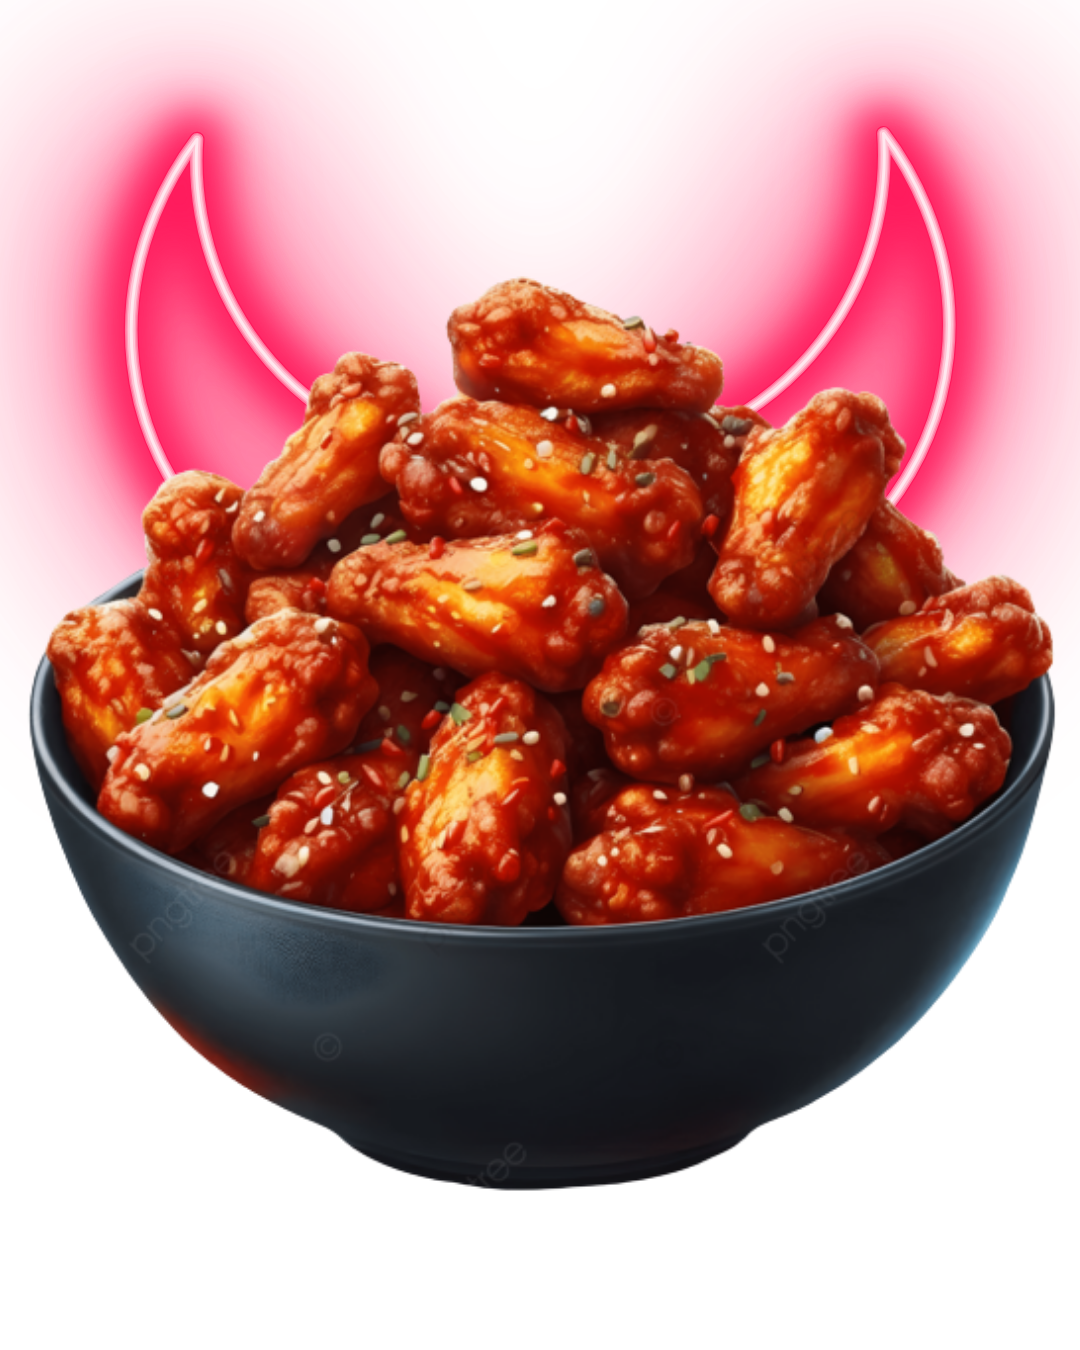
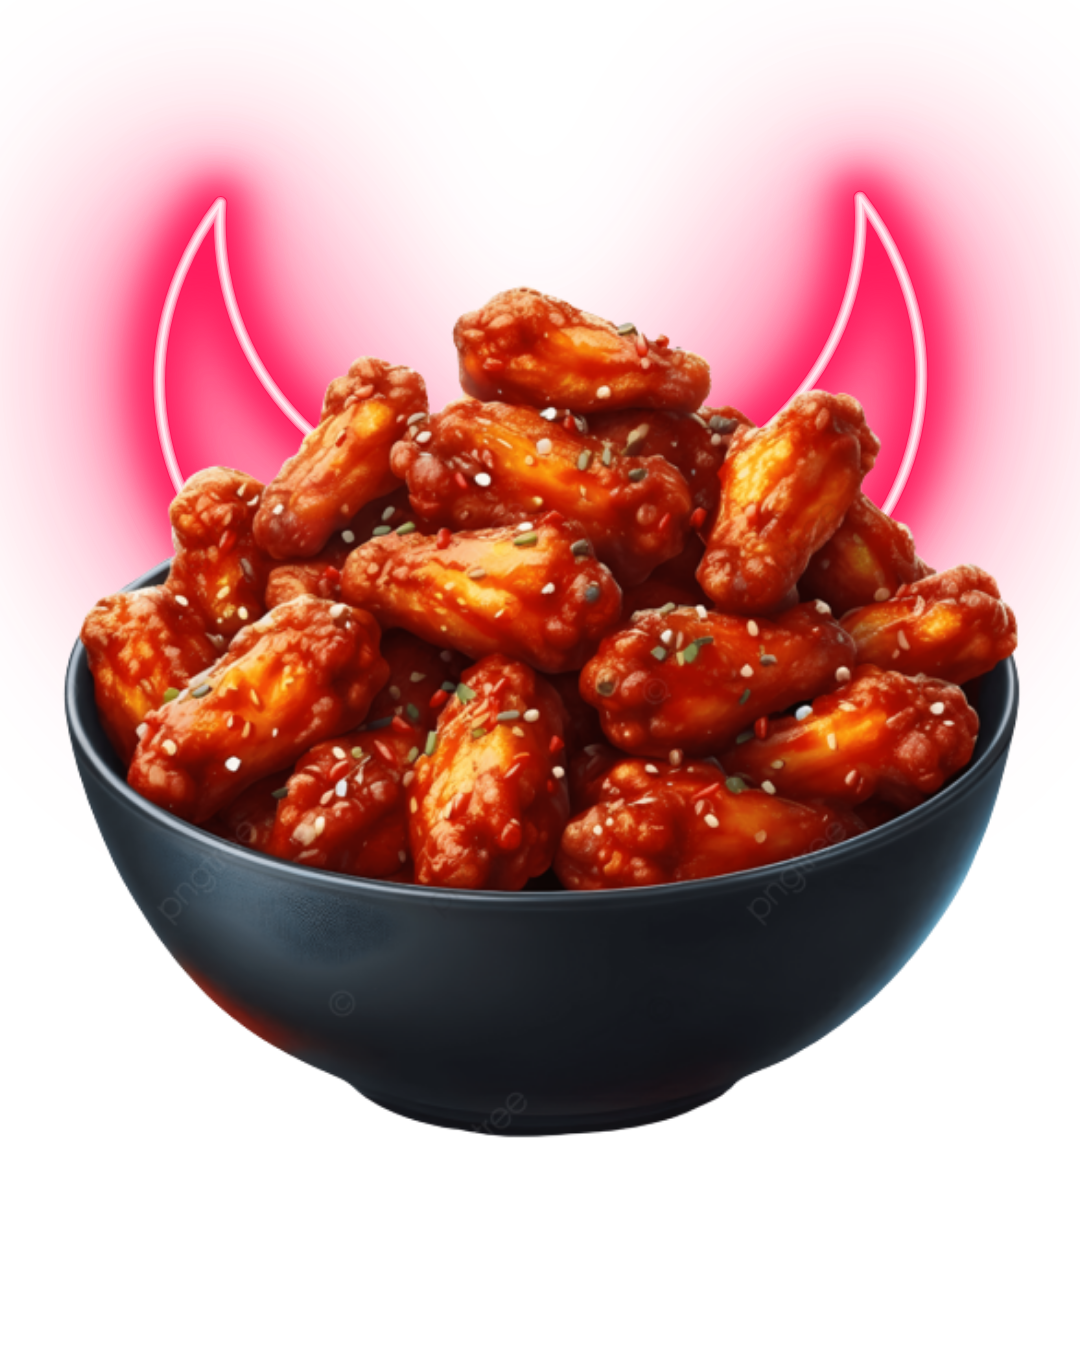
Actualizar imagen de Todos Pecan con nueva versión
- Reemplazar imagen todos-pecan.png con nueva versión
- Agregar parámetro v=2 para evitar caché del navegador
- Forzar recarga de imagen actualizada

🤖 Generated with [Claude Code](https://claude.com/claude-code)

diff --git a/app/fat/page.tsx b/app/fat/page.tsx
@@ -47,7 +47,7 @@ const products: Product[] = [
     name: "Todos Pecan",
     description: "24 alitas + papas fritas + bebida grande",
     price: 49.90,
-    image: "/todos-pecan.png",
+    image: "/todos-pecan.png?v=2",
     category: "fat",
   },
 ];
